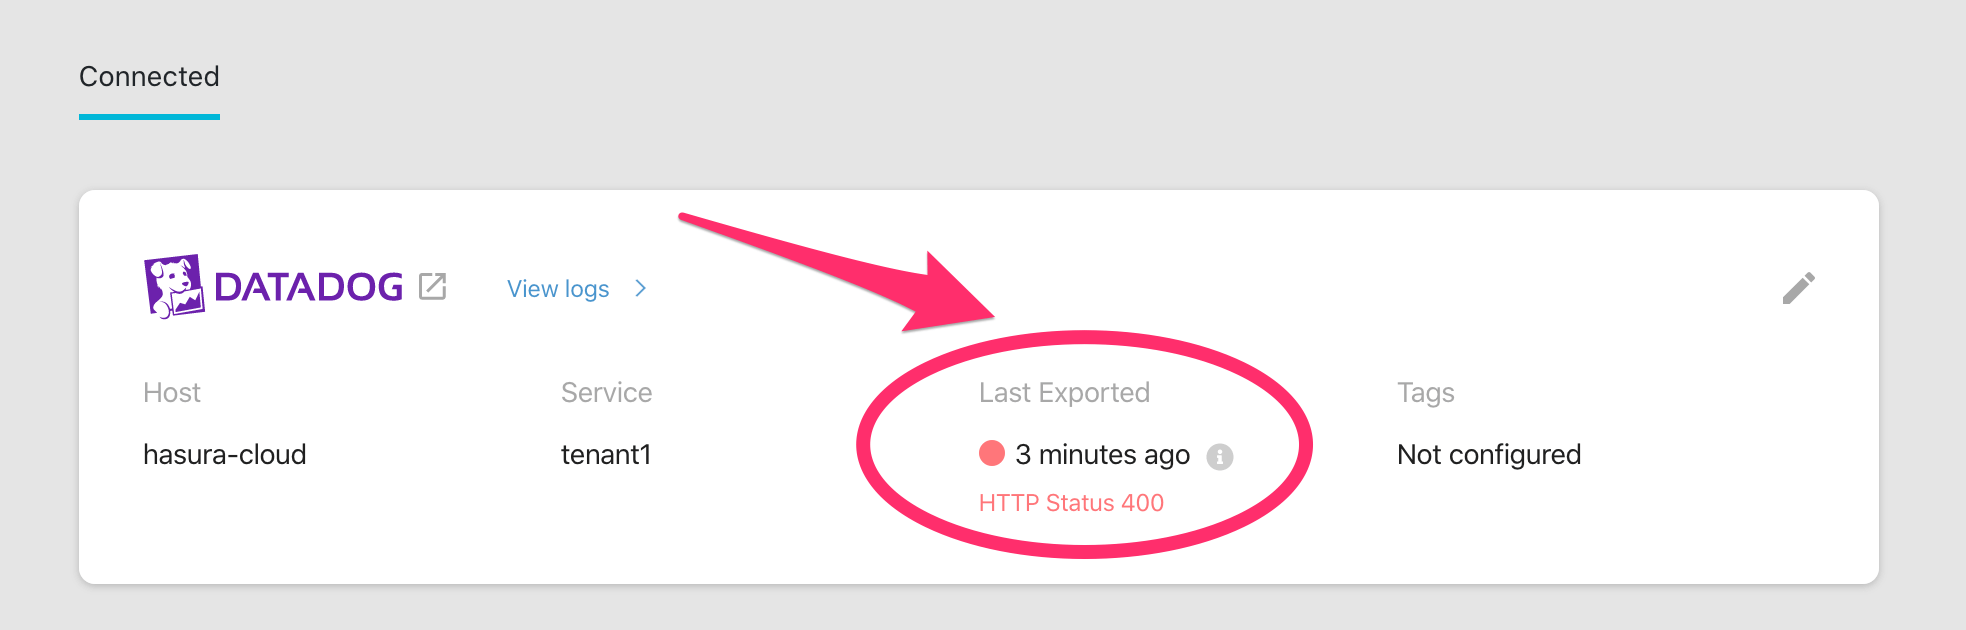
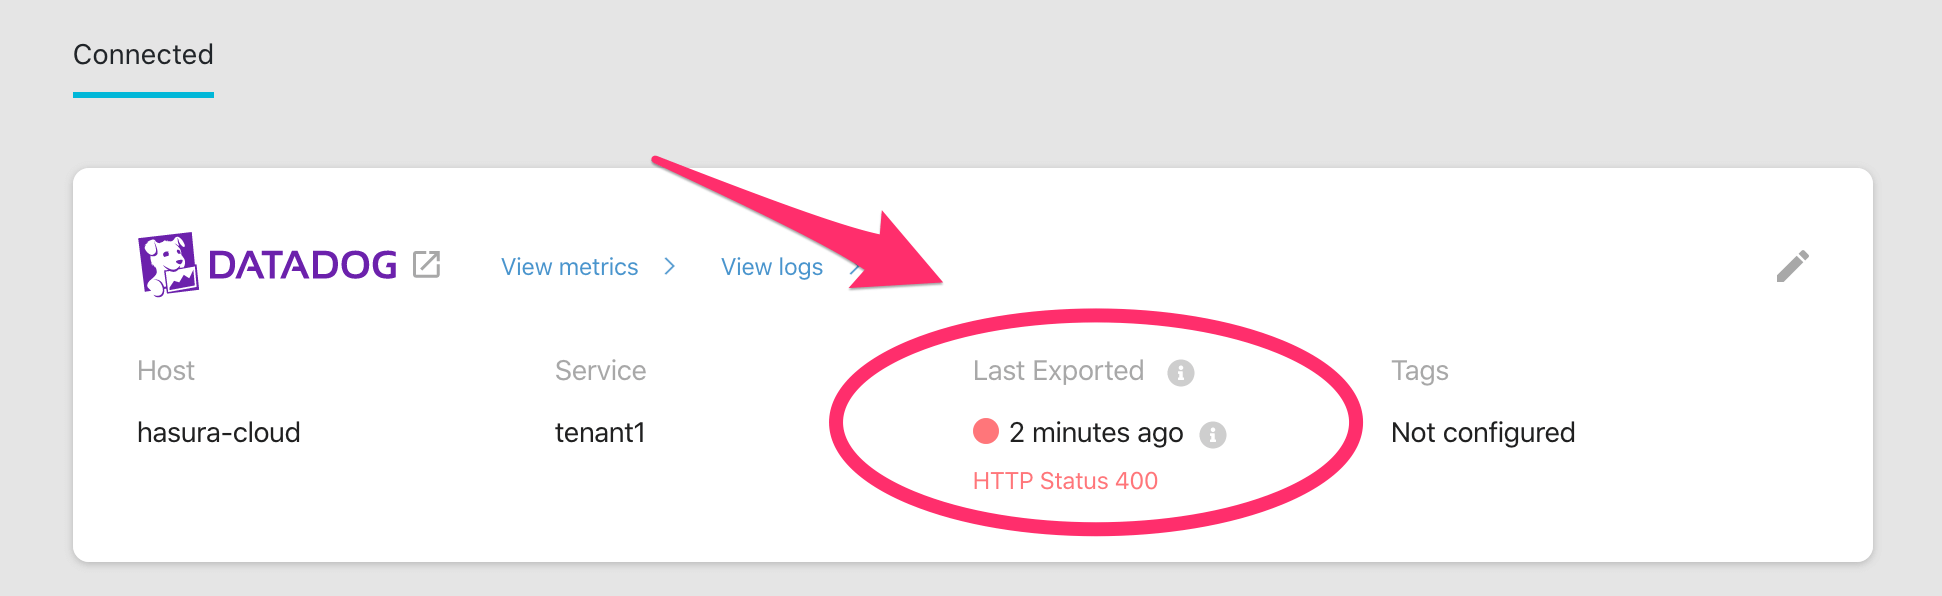
docs: update Datadog integration v2 docs
GitOrigin-RevId: a0f762bca40cdb5bea690f48625c3a3cb5ae7e89

diff --git a/docs/graphql/cloud/metrics/integrations/datadog.rst b/docs/graphql/cloud/metrics/integrations/datadog.rst
@@ -15,7 +15,7 @@ Datadog Integration
 Introduction
 ------------
 
-You can export metrics of your Hasura Cloud project to your organisation's Datadog dashboard. This can be configured 
+You can export metrics and operation logs of your Hasura Cloud project to your organisation's Datadog dashboard. This can be configured 
 on the integrations tab on the project's setting page.  
 
 .. note::
@@ -47,10 +47,10 @@ Select the Datadog API region and enter the Datadog API key (can be retrieved by
      - API keys are unique to your organization. An API key is required by the Datadog Agent to submit metrics and events to Datadog. You can get the API key from `here <https://app.datadoghq.com/account/settings#api>`__ if you are in Datadog US region and `here <https://app.datadoghq.eu/account/settings#api>`__ if you're in Datadog EU region.
    
    * - Host
-     - The name of the originating host of the log.
+     - The name of the originating host of the log and metrics.
 
    * - Tags
-     - Tags associated with your logs.
+     - Tags associated with your logs and metrics.
 
    * - Service Name 
      - The name of the application or service generating the log events.
@@ -80,7 +80,7 @@ In case there is an error while exporting logs to datadog, the dot is red and th
 View logs
 ---------
 
-The logs can be viewed in your Datadog dashboard, under the ``Logs`` tabs. To navigate to the same, click ``View Logs``.
+The logs can be viewed in your Datadog dashboard, under the ``Logs`` tab. To navigate to the same, click ``View Logs``.
 
 .. thumbnail:: /img/graphql/cloud/metrics/datadog-view-logs.png
    :alt: Datadog Integration successfully configured
@@ -90,7 +90,52 @@ The logs can be viewed in your Datadog dashboard, under the ``Logs`` tabs. To na
    :alt: Logs successfully exported to Datadog
    :width: 1146px
 
+To view only logs exported by Hasura Cloud, filter your logs using ``host`` and/or ``tags`` you configured with this integration.
+
 .. note::
 
   Datadog allows ingestion of logs with maximum size 256kB for a single log. If a log exceeds this limit, Datadog
   will truncate the log at 256kB.
+
+View metrics
+------------
+
+The integration exports the following five metrics to your Datadog dashboard:
+
+.. list-table::
+   :header-rows: 1
+   :widths: 30 30
+
+   * - Metric Exported
+     - Metric Name in Datadog
+
+   * - Average number of requests
+     - ``average_requests_per_minute``
+  
+   * - Average request execution time 
+     - ``average_execution_time``
+
+   * - Success rate of requests 
+     - ``success_rate``
+
+   * - Active subscriptions 
+     - ``active_subscriptions``
+
+   * - Number of websockets open
+     - ``websockets_open``
+
+Non zero values of all the above metrics are exported over a one minute time interval. Each metric name 
+is prefixed with your project's name.
+
+Graphs for all the above metrics can be viewed in your Datadog dashboard, under the ``Metrics`` tab. To navigate to the same, click ``View Metrics``.
+
+.. thumbnail:: /img/graphql/cloud/metrics/datadog-view-metrics.png
+   :alt: Datadog Integration successfully configured
+   :width: 1146px
+
+Select the graphs you want to view from the metrics explorer. Alternatively, select the ``host`` you configured with this integration to see all the 
+graphs corresponding to metrics exported by Hasura Cloud. 
+
+.. thumbnail:: /img/graphql/cloud/metrics/datadog-metrics.png
+   :alt: Metrics successfully exported to Datadog
+   :width: 1146px
